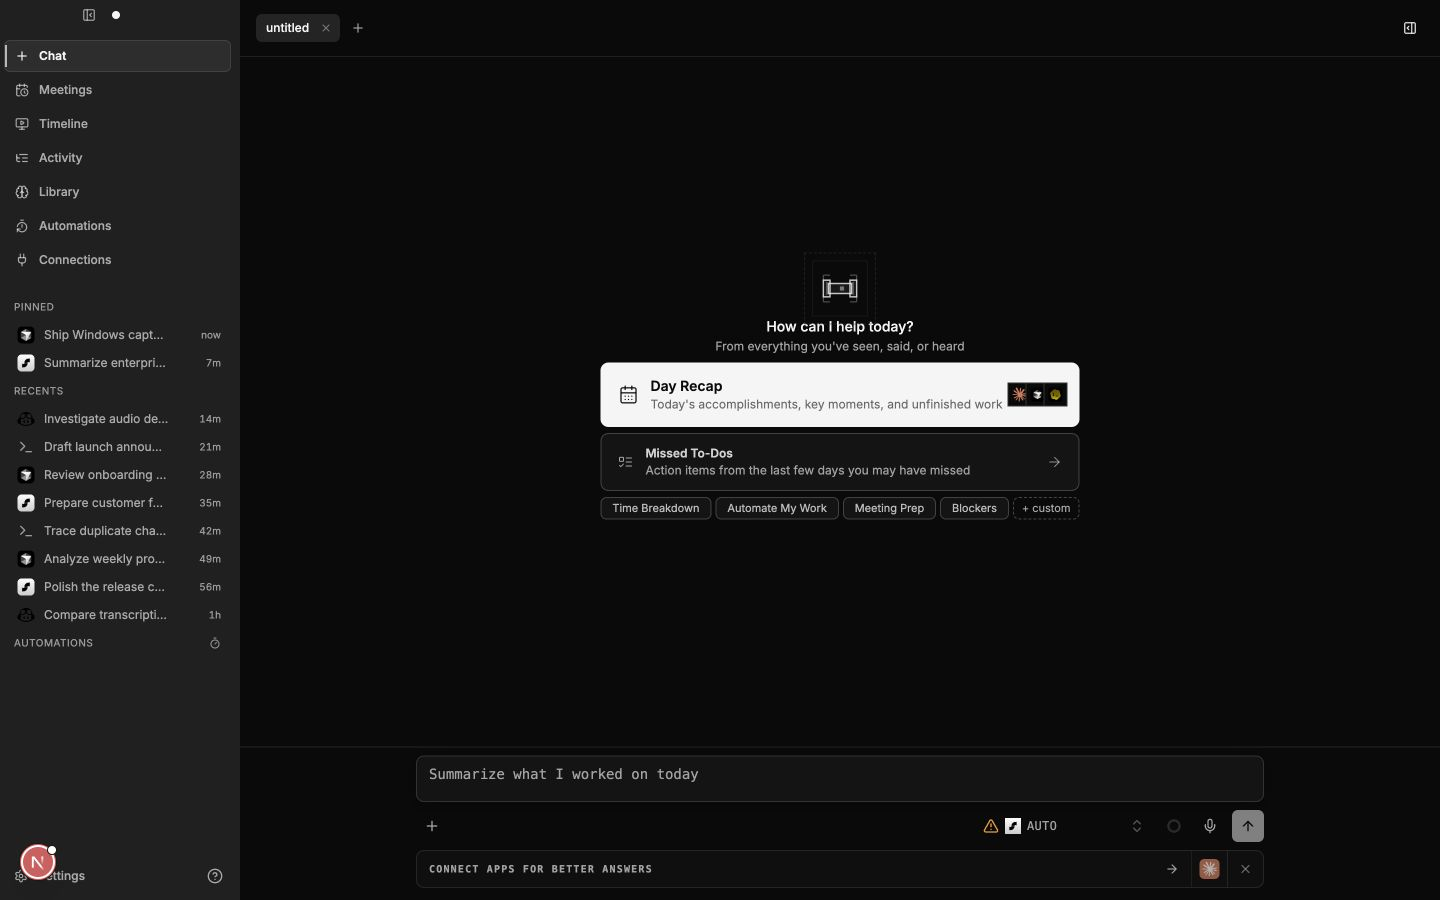
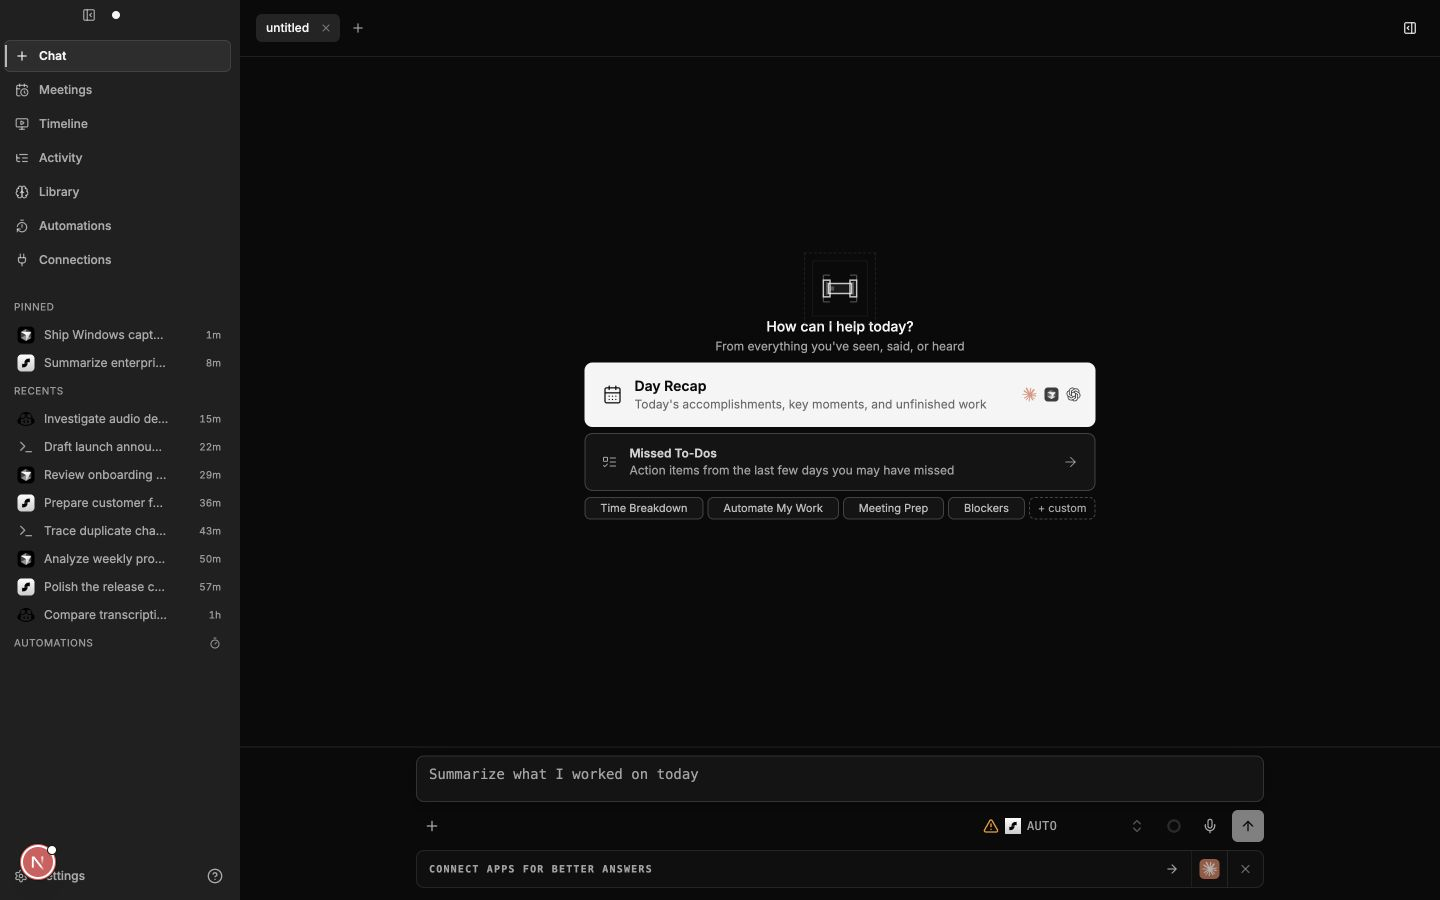
fix(home): polish agent launcher affordance

Changed region(s): [[0.4062, 0.4044, 0.7812, 0.5289], [0.5938, 0.56, 0.75, 0.5911], [0.4062, 0.56, 0.5625, 0.5911]]

diff --git a/apps/screenpipe-app-tauri/components/chat/summary-cards.tsx b/apps/screenpipe-app-tauri/components/chat/summary-cards.tsx
@@ -100,7 +100,7 @@ function HomeCardArrow({ slug }: { slug: string }) {
   return (
     <ArrowRight
       data-testid={`home-card-arrow-${slug}`}
-      className="h-4 w-4 shrink-0 text-foreground/55 transition-all duration-150 group-hover/home-card:translate-x-0.5 group-hover/home-card:opacity-0 group-hover/home-card:text-background group-focus-within/home-card:opacity-0 motion-reduce:transition-none"
+      className="h-4 w-4 shrink-0 text-foreground/55 transition-all duration-150 group-hover/home-card:translate-x-0.5 group-hover/home-card:opacity-0 group-hover/home-card:text-background group-focus-within/home-card:opacity-0 group-focus-within/home-card:text-background motion-reduce:transition-none"
       strokeWidth={1.5}
       aria-hidden
     />
@@ -230,18 +230,18 @@ export function SummaryCards({
               previewPromptForPipe(featured[0]),
               onPreviewPrompt,
             )}
-            className="w-full cursor-pointer rounded-lg border border-foreground/25 border-l-2 border-l-signal bg-card px-4 py-3.5 text-left text-foreground transition-colors duration-150 group-hover/home-card:border-foreground group-hover/home-card:bg-foreground group-hover/home-card:text-background focus-visible:outline-none focus-visible:ring-1 focus-visible:ring-foreground focus-visible:ring-offset-2 focus-visible:ring-offset-background motion-reduce:transition-none"
+            className="w-full cursor-pointer rounded-lg border border-foreground/25 border-l-2 border-l-signal bg-card px-4 py-3.5 text-left text-foreground transition-colors duration-150 group-hover/home-card:border-foreground group-hover/home-card:bg-foreground group-hover/home-card:text-background group-focus-within/home-card:border-foreground group-focus-within/home-card:bg-foreground group-focus-within/home-card:text-background focus-visible:outline-none focus-visible:ring-1 focus-visible:ring-foreground focus-visible:ring-offset-2 focus-visible:ring-offset-background motion-reduce:transition-none"
           >
             <div className="flex items-center gap-3">
               <HomeCardIcon
                 slug={featured[0].name}
-                className="h-5 w-5 shrink-0 text-foreground/70 group-hover/home-card:text-background"
+                className="h-5 w-5 shrink-0 text-foreground/70 group-hover/home-card:text-background group-focus-within/home-card:text-background"
               />
-              <div className="flex-1 pr-8">
-                <div className="text-sm font-semibold group-hover/home-card:text-background leading-tight">
+              <div className="flex-1 pr-16">
+                <div className="text-sm font-semibold group-hover/home-card:text-background group-focus-within/home-card:text-background leading-tight">
                   {featured[0].title}
                 </div>
-                <div className="text-xs text-muted-foreground group-hover/home-card:text-background/60 leading-tight mt-0.5">
+                <div className="text-xs text-muted-foreground group-hover/home-card:text-background/60 group-focus-within/home-card:text-background/60 leading-tight mt-0.5">
                   {featured[0].description}
                 </div>
               </div>
@@ -262,18 +262,18 @@ export function SummaryCards({
               previewPromptForPipe(featured[1]),
               onPreviewPrompt,
             )}
-            className="w-full cursor-pointer rounded-lg border border-foreground/20 bg-card px-4 py-3 text-left text-foreground transition-colors duration-150 group-hover/home-card:border-foreground group-hover/home-card:bg-foreground group-hover/home-card:text-background focus-visible:outline-none focus-visible:ring-1 focus-visible:ring-foreground focus-visible:ring-offset-2 focus-visible:ring-offset-background motion-reduce:transition-none"
+            className="w-full cursor-pointer rounded-lg border border-foreground/20 bg-card px-4 py-3 text-left text-foreground transition-colors duration-150 group-hover/home-card:border-foreground group-hover/home-card:bg-foreground group-hover/home-card:text-background group-focus-within/home-card:border-foreground group-focus-within/home-card:bg-foreground group-focus-within/home-card:text-background focus-visible:outline-none focus-visible:ring-1 focus-visible:ring-foreground focus-visible:ring-offset-2 focus-visible:ring-offset-background motion-reduce:transition-none"
           >
             <div className="flex items-center gap-3">
               <HomeCardIcon
                 slug={featured[1].name}
-                className="h-4 w-4 shrink-0 text-foreground/65 group-hover/home-card:text-background"
+                className="h-4 w-4 shrink-0 text-foreground/65 group-hover/home-card:text-background group-focus-within/home-card:text-background"
               />
-              <div className="flex-1 pr-8">
-                <div className="text-xs font-semibold text-foreground/85 group-hover/home-card:text-background leading-tight">
+              <div className="flex-1 pr-16">
+                <div className="text-xs font-semibold text-foreground/85 group-hover/home-card:text-background group-focus-within/home-card:text-background leading-tight">
                   {featured[1].title}
                 </div>
-                <div className="text-xs text-muted-foreground group-hover/home-card:text-background/70 leading-tight mt-0.5">
+                <div className="text-xs text-muted-foreground group-hover/home-card:text-background/70 group-focus-within/home-card:text-background/70 leading-tight mt-0.5">
                   {featured[1].description}
                 </div>
               </div>

diff --git a/apps/screenpipe-app-tauri/components/chat/home-card-agent-actions.tsx b/apps/screenpipe-app-tauri/components/chat/home-card-agent-actions.tsx
@@ -30,6 +30,8 @@ type LaunchState = "opening" | "opened" | "copied" | "unavailable";
 
 const SCREENPIPE_GITHUB_URL = "https://github.com/screenpipe/screenpipe";
 
+export const HOME_CARD_AGENT_TOOLTIP = "run this in your favorite agent";
+
 const SETUP_TARGETS: Record<HomeCardAgentId, string> = {
   claude: "claude-desktop",
   cursor: "cursor",
@@ -81,11 +83,7 @@ function AgentLogo({ id }: { id: HomeCardAgentId }) {
   if (id === "cursor") return <CursorLogo className={className} />;
   return (
     // eslint-disable-next-line @next/next/no-img-element
-    <img
-      src="/images/codex.svg"
-      alt=""
-      className={`${className} dark:invert`}
-    />
+    <img src="/images/openai.svg" alt="" className={className} />
   );
 }
 
@@ -187,7 +185,7 @@ export function HomeCardAgentActions({ pipe }: { pipe: TemplatePipe }) {
       data-agent={activeAgent ?? undefined}
       role="group"
       aria-label={`Run ${pipe.title} in another agent`}
-      className={`absolute right-3 top-1/2 z-20 flex -translate-y-1/2 items-center text-foreground transition-opacity duration-150 motion-reduce:transition-none ${
+      className={`absolute right-3 top-1/2 z-20 flex -translate-y-1/2 items-center gap-0.5 text-foreground transition-opacity duration-150 motion-reduce:transition-none ${
         state
           ? "pointer-events-auto opacity-100"
           : "pointer-events-none opacity-0 group-hover/home-card:pointer-events-auto group-hover/home-card:opacity-100 group-focus-within/home-card:pointer-events-auto group-focus-within/home-card:opacity-100"
@@ -201,7 +199,7 @@ export function HomeCardAgentActions({ pipe }: { pipe: TemplatePipe }) {
         {statusLabel(state)}
       </span>
       <TooltipProvider delayDuration={120}>
-        {HOME_CARD_AGENT_TARGETS.map((target, index) => {
+        {HOME_CARD_AGENT_TARGETS.map((target) => {
           const label = AGENT_LABELS[target.id];
           const isOpening = pending && activeAgent === target.id;
           const isResult = !pending && state && activeAgent === target.id;
@@ -216,9 +214,9 @@ export function HomeCardAgentActions({ pipe }: { pipe: TemplatePipe }) {
                   onPointerEnter={() => trackAgentViewed(target.id, "hover")}
                   onFocus={() => trackAgentViewed(target.id, "keyboard")}
                   onClick={() => void launch(target)}
-                  className={`flex h-6 w-6 items-center justify-center border border-border bg-background transition-[color,background-color,border-color,transform] duration-150 hover:z-10 hover:-translate-y-0.5 hover:border-foreground hover:bg-foreground hover:text-background focus-visible:z-10 focus-visible:outline-none focus-visible:ring-1 focus-visible:ring-foreground disabled:cursor-wait disabled:opacity-60 motion-reduce:transform-none motion-reduce:transition-none ${
-                    index > 0 ? "-ml-1.5" : ""
-                  } ${isResult ? "z-10 border-signal" : ""}`}
+                  className={`flex h-5 w-5 items-center justify-center rounded-full opacity-75 transition-[color,background-color,opacity,transform] duration-150 hover:z-10 hover:scale-110 hover:bg-background/10 hover:opacity-100 focus-visible:z-10 focus-visible:bg-background/10 focus-visible:opacity-100 focus-visible:outline-none focus-visible:ring-1 focus-visible:ring-background disabled:cursor-wait disabled:opacity-50 motion-reduce:transform-none motion-reduce:transition-none ${
+                    isResult ? "z-10 text-signal opacity-100" : ""
+                  }`}
                 >
                   {isOpening ? (
                     <Loader2 className="h-3.5 w-3.5 animate-spin" aria-hidden />
@@ -235,12 +233,10 @@ export function HomeCardAgentActions({ pipe }: { pipe: TemplatePipe }) {
               </TooltipTrigger>
               <TooltipContent
                 side="right"
-                sideOffset={8}
-                className="rounded-none px-2 py-1 font-mono text-[10px]"
+                sideOffset={6}
+                className="rounded-md px-2.5 py-1.5 text-[11px] font-normal"
               >
-                {isResult
-                  ? resultDescription(state, label)
-                  : `Run this in ${label}. The prompt is copied first as a fallback.`}
+                {HOME_CARD_AGENT_TOOLTIP}
               </TooltipContent>
             </Tooltip>
           );

diff --git a/apps/screenpipe-app-tauri/components/chat/home-card-agent-actions.test.tsx b/apps/screenpipe-app-tauri/components/chat/home-card-agent-actions.test.tsx
@@ -8,6 +8,7 @@ import { afterEach, beforeEach, describe, expect, it, vi } from "vitest";
 
 import {
   buildHomeCardAgentPrompt,
+  HOME_CARD_AGENT_TOOLTIP,
   HomeCardAgentActions,
 } from "./home-card-agent-actions";
 
@@ -61,6 +62,14 @@ describe("HomeCardAgentActions", () => {
     expect(
       screen.getByRole("button", { name: "Run in Codex" }),
     ).toBeInTheDocument();
+    expect(
+      screen
+        .getByRole("button", { name: "Run in Codex" })
+        .querySelector("img"),
+    ).toHaveAttribute("src", "/images/openai.svg");
+    expect(HOME_CARD_AGENT_TOOLTIP).toBe(
+      "run this in your favorite agent",
+    );
   });
 
   it("tracks each agent action once when it is hovered or keyboard-focused", () => {
